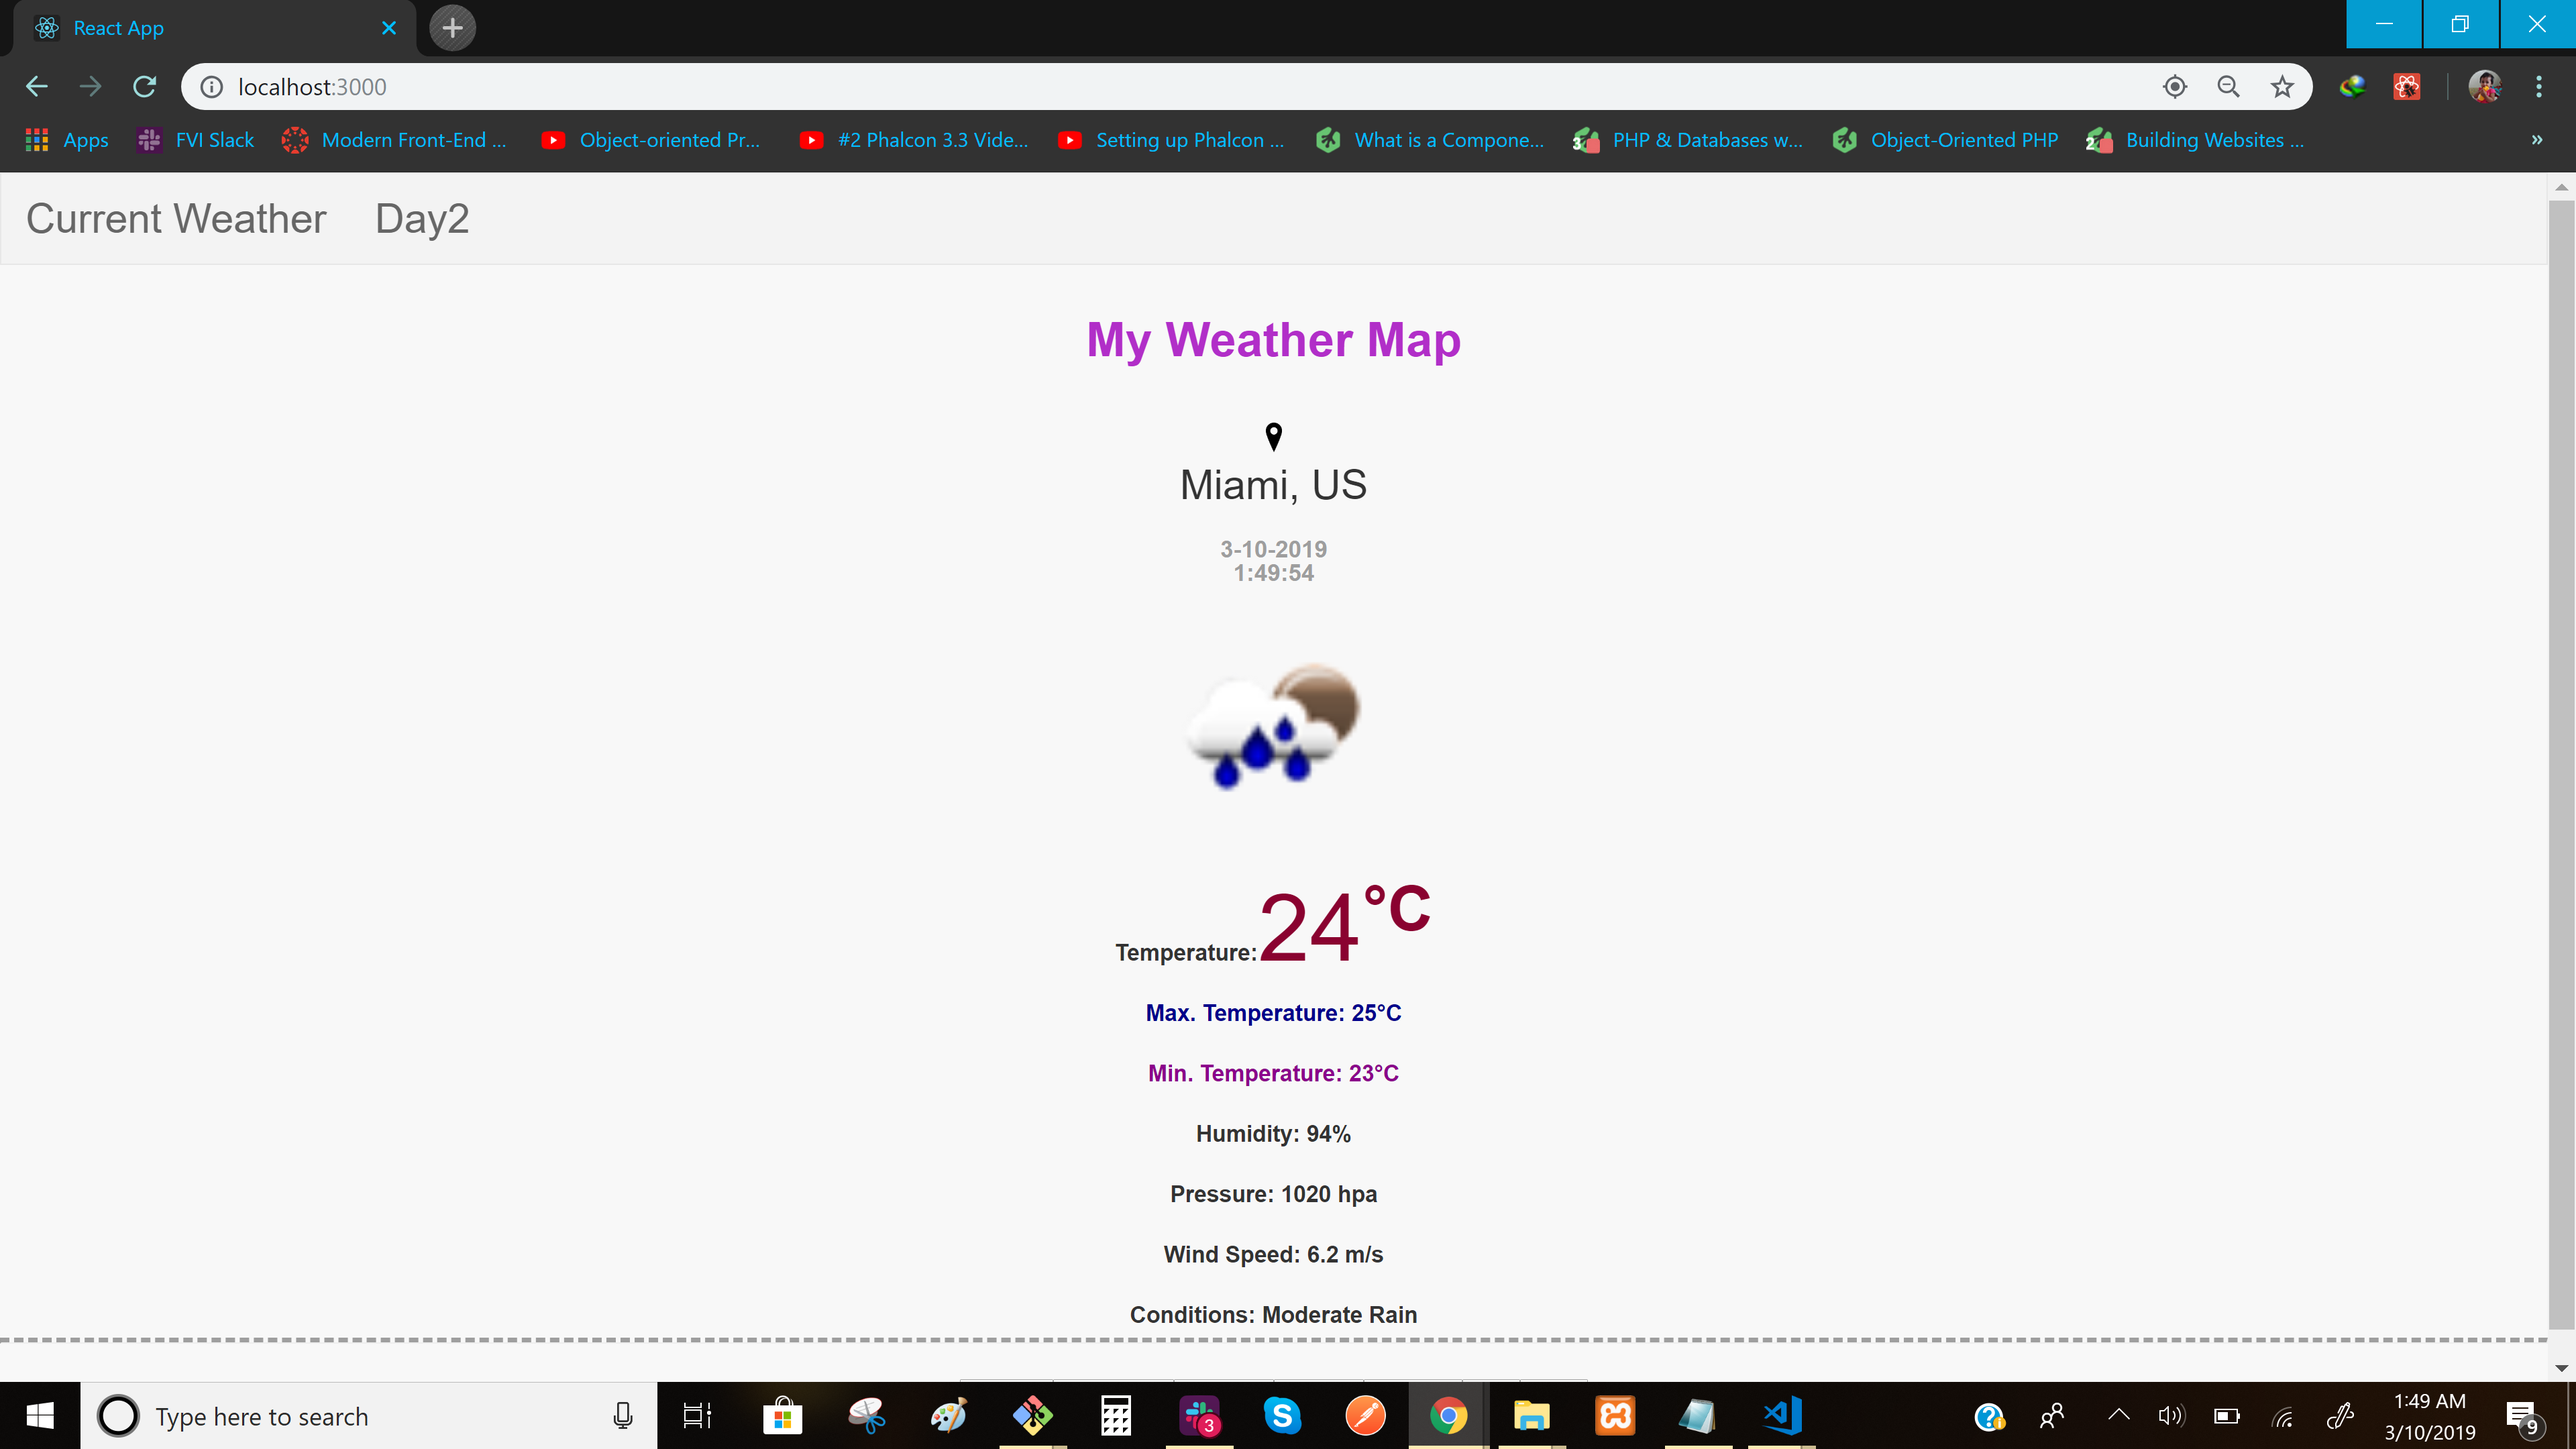
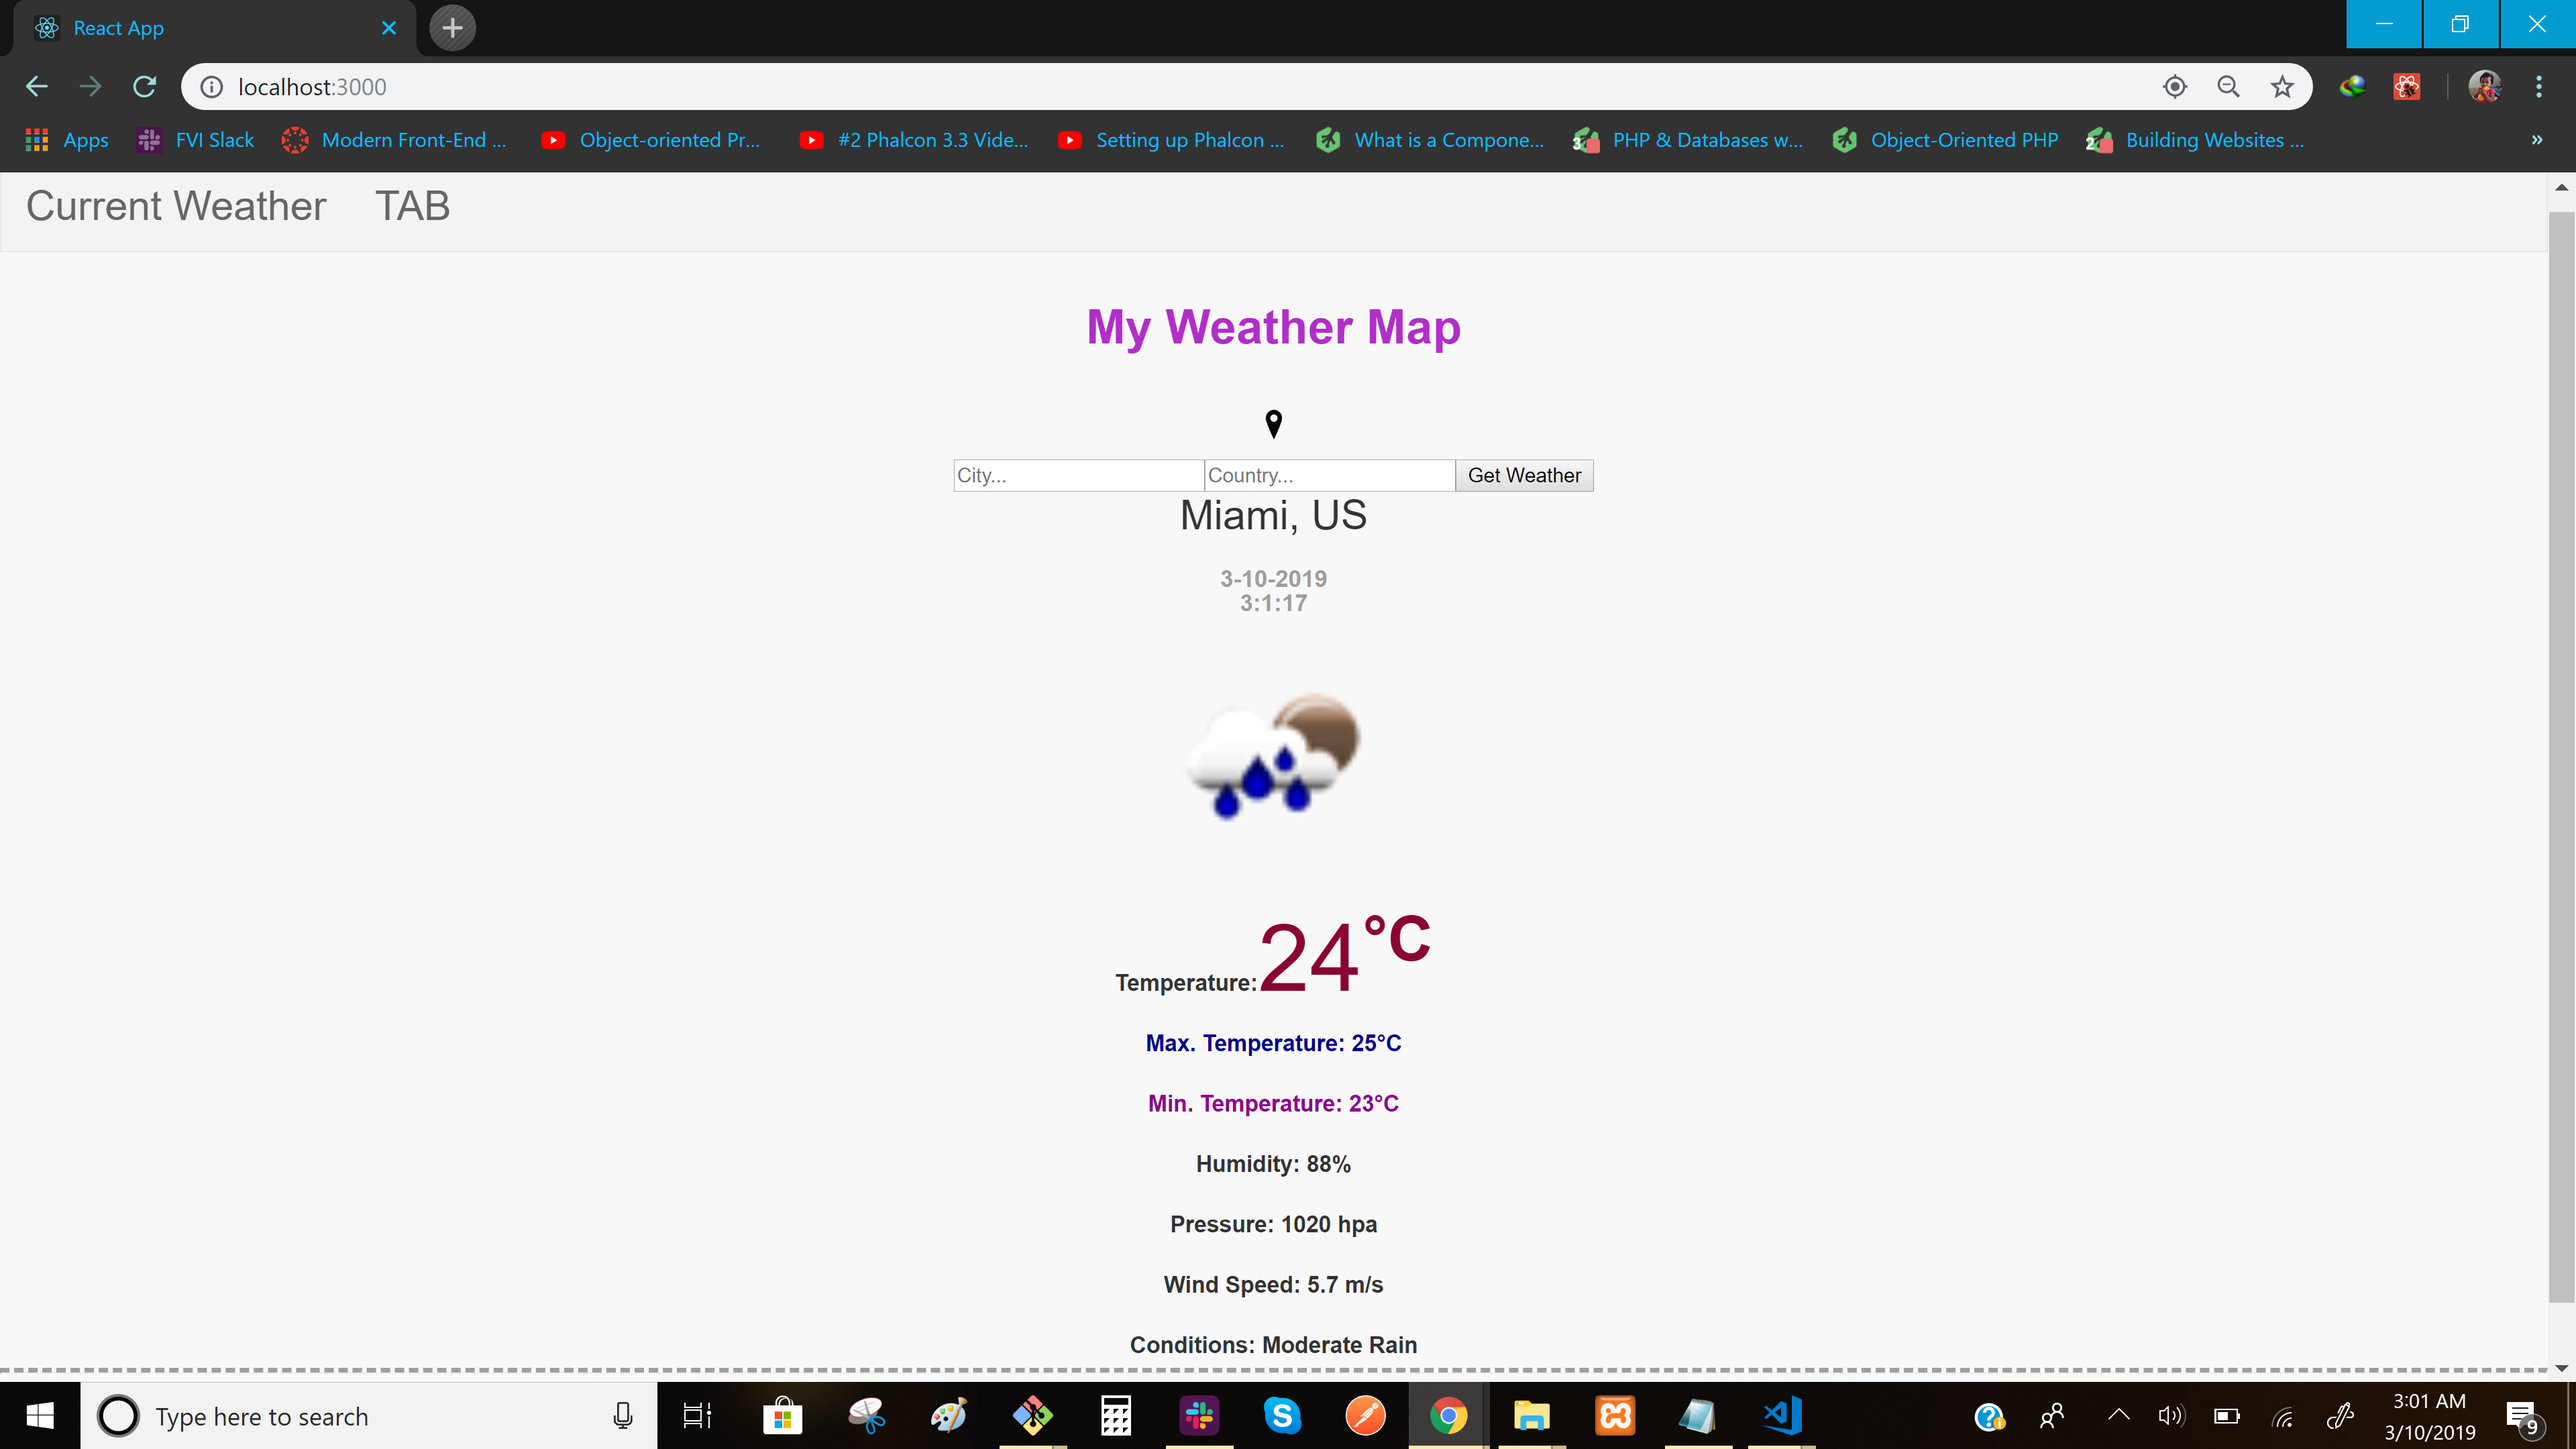
Updated

diff --git a/src/App.css b/src/App.css
@@ -278,10 +278,6 @@ hr {
   border-top: 3px dashed #9e9e9e;
 }
 
-form {
-  display: none;
-}
-
 .location {
   margin-top: 0;
 }
